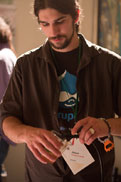
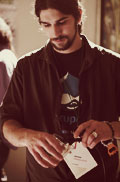
new images

diff --git a/js/map.js b/js/map.js
@@ -8,19 +8,19 @@ var features = {
     lat: 45.5236111,
     lon: -122.675,
     zoom: 8,
-    popup: '<div class="feature1"><img class="pdx-photo" src="img/gaspump.png" /><div class="pdx-fact">It\'s illegal to pump your own gas in Oregon, as well as to used canned corn as fish bate, or box with a kangaroo. Also, it\'s illegal to possess an uncured animal hide in Portland city limits, or to whistle under water. You\'ve been warned.</div></div>'
+    popup: '<div class="feature1"><img class="pdx-photo popup-image" src="img/drewish.jpg" /><div class="pdx-fact">It\'s illegal to pump your own gas in Oregon, as well as to used canned corn as fish bate, or box with a kangaroo. Also, it\'s illegal to possess an uncured animal hide in Portland city limits, or to whistle under water. You\'ve been warned.</div></div>'
   },
   feature2: {
     lat: 45.5163715505381,
     lon: -122.629707282185,
     zoom: 15,
-    popup: '<div class="feature2"> <img class="pdx-photo" src="" /><div class="pdx-fact">Portland was not, in fact, discovered by Lewis and Clarke. It was discovered by a lot of Californians who got tired of Bay Area traffic and high housing costs.</div></div>'
+    popup: '<div class="feature2"> <img class="pdx-photo popup-image" src="img/andrea.jpg" /><div class="pdx-fact">Portland was not, in fact, discovered by Lewis and Clarke. It was discovered by a lot of Californians who got tired of Bay Area traffic and high housing costs.</div></div>'
   },
   feature3: {
     lat: 45.52268014994,
     lon: -122.673152182496,
     zoom: 13,
-    popup: '<div class="feature3"><img class="pdx-photo popup-image" src="../img/grant.jpg" /><div class="pdx-fact">We eat a lot of Voodoo Donuts and drink a lot of Stumptown Coffee - but it doesn\'t show. Also, we can drink beer at our movie theaters.</div></div>'
+    popup: '<div class="feature3"><img class="pdx-photo popup-image" src="../img/chris_amye.jpg" /><div class="pdx-fact">We eat a lot of Voodoo Donuts and drink a lot of Stumptown Coffee - but it doesn\'t show. Also, we can drink beer at our movie theaters.</div></div>'
   },
   feature4: {
     lat: 45.513464910352276,
